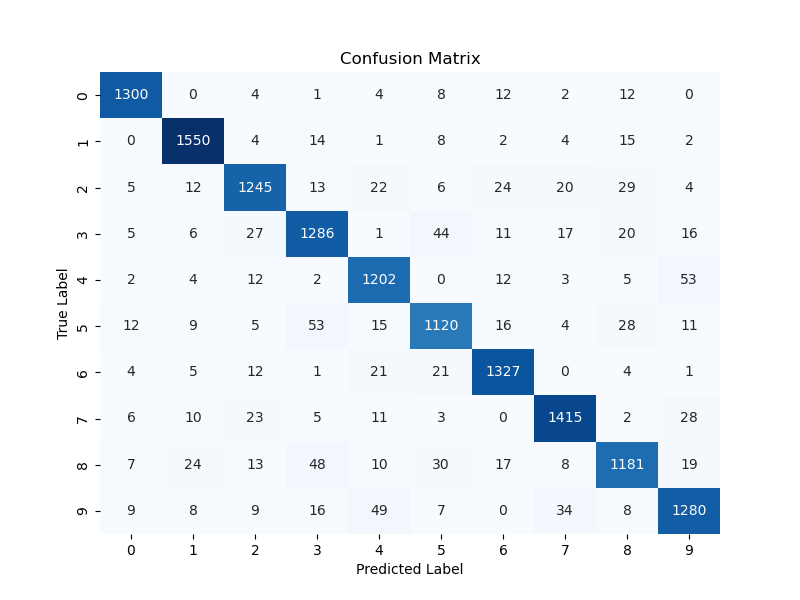
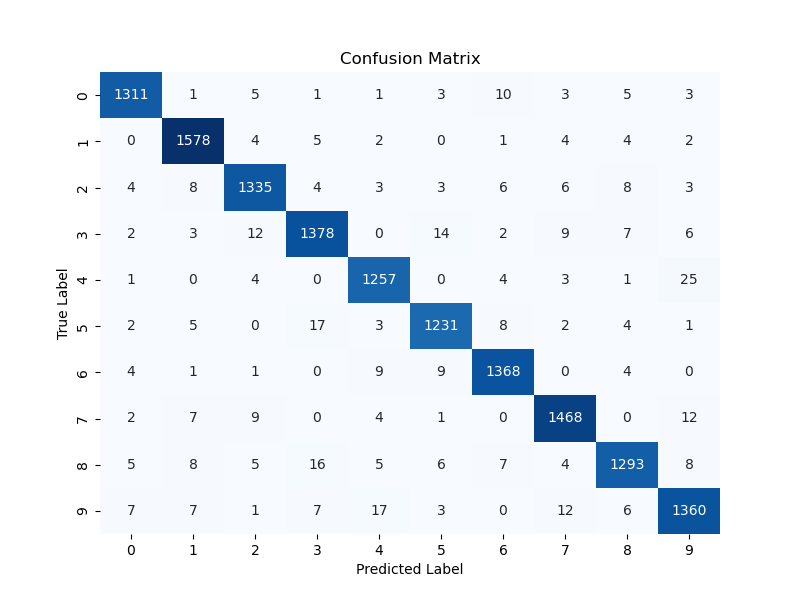
modified

diff --git a/Ex1/utils.py b/Ex1/utils.py
@@ -126,20 +126,30 @@ def plot_confusion_matrix(y_true, y_pred, labels=None, title='Confusion Matrix',
     plt.title(title)
     plt.show()
 
+
+
 def plot_misclassified_samples(X_test, y_true, y_pred, class_names=None, num_samples=10,
                                 image_shape=None, random_seed=None):
     """
     可视化错误分类的样本
     参数：
-        X_test: 测试数据，形状 (n_samples, ...) 可以是图像特征向量或原始图像
-        y_true: 真实标签，one-hot或类别索引
-        y_pred: 预测标签，one-hot或类别索引
+        X_test: 测试数据，形状 (n_samples, ...) 可以是图像特征向量或原始图像，支持 pandas DataFrame/Series 或 numpy 数组
+        y_true: 真实标签，one-hot或类别索引，支持 pandas Series/DataFrame 或 numpy 数组
+        y_pred: 预测标签，格式同 y_true
         class_names: list, 类别名称（可选）
         num_samples: int, 最多显示的样本数
         image_shape: tuple, 如果X_test是扁平化图像，指定形状如 (28,28)；若为None且数据是2D则尝试直接显示
         random_seed: int, 随机种子，用于复现
     """
-    # 转换为类别索引
+    # 将 pandas 对象转换为 numpy 数组
+    if hasattr(X_test, 'values'):
+        X_test = X_test.values
+    if hasattr(y_true, 'values'):
+        y_true = y_true.values
+    if hasattr(y_pred, 'values'):
+        y_pred = y_pred.values
+
+    # 转换为类别索引（如果是one-hot）
     if y_true.ndim == 2 and y_true.shape[1] > 1:
         y_true = np.argmax(y_true, axis=1)
     if y_pred.ndim == 2 and y_pred.shape[1] > 1:
@@ -164,14 +174,14 @@ def plot_misclassified_samples(X_test, y_true, y_pred, class_names=None, num_sam
     plt.figure(figsize=(cols * 3, rows * 3))
 
     for i, idx in enumerate(selected_indices):
-        sample = X_test[idx]
+        sample = X_test[idx]  # 现在 X_test 是 numpy 数组，索引安全
 
         # 处理图像数据：如果提供了image_shape且样本是一维，尝试重塑
         if image_shape is not None and sample.ndim == 1:
             try:
                 sample = sample.reshape(image_shape)
             except:
-                pass  # 若重塑失败则保持原样
+                pass
 
         plt.subplot(rows, cols, i + 1)
 
@@ -179,7 +189,7 @@ def plot_misclassified_samples(X_test, y_true, y_pred, class_names=None, num_sam
         if sample.ndim == 2:  # 灰度图像
             plt.imshow(sample, cmap='gray')
             plt.axis('off')
-        elif sample.ndim == 3 and sample.shape[-1] in [1, 3, 4]:  # 彩色图像（通道在最后）
+        elif sample.ndim == 3 and sample.shape[-1] in [1, 3, 4]:  # 彩色图像
             if sample.shape[-1] == 1:
                 plt.imshow(sample.squeeze(), cmap='gray')
             else:

diff --git a/Ex1/train_without_test.py b/Ex1/train_without_test.py
@@ -8,7 +8,7 @@ from model import Model, FullyConnectedLayer
 def main():
 
     rd=42
-    epochs = 15
+    epochs = 150
     batch_size = 128
     learning_rate = 0.005
     optimizer = 'adam'
@@ -77,7 +77,7 @@ def main():
             epoch_train_acc += accuracy
             num_batches += 1
 
-            print(f"Epoch {epoch + 1}, Batch {i // batch_size + 1}, Loss: {loss:.4f}, Accuracy: {accuracy:.4f}")
+            # print(f"Epoch {epoch + 1}, Batch {i // batch_size + 1}, Loss: {loss:.4f}, Accuracy: {accuracy:.4f}")
 
             model.backward(y_pred_probs - y_batch)
 
@@ -93,7 +93,7 @@ def main():
         if l2_reg:
             l2_loss = sum(l2_regularization_loss(layer.W, l2_lambda) for layer in model.layers)
             val_loss += l2_loss
-        val_accuracy = np.mean(y_val_pred == np.argmax(y_val, axis=1))
+        val_accuracy = np.mean(y_val_pred == y_val_label)
 
         val_losses.append(val_loss)
         val_accuracies.append(val_accuracy)
@@ -102,9 +102,10 @@ def main():
 
         if epoch == epochs - 1:  # 最后一个epoch结束后绘制混淆矩阵
            plot_confusion_matrix(y_val_label, y_val_pred)
+           plot_misclassified_samples(X_val, y_val_label, y_val_pred, num_samples=10, image_shape=(28, 28), random_seed=rd)
 
     plot_loss_accuracy(train_losses, val_losses, train_accuracies, val_accuracies, epochs)
-
+    
 
 
 
